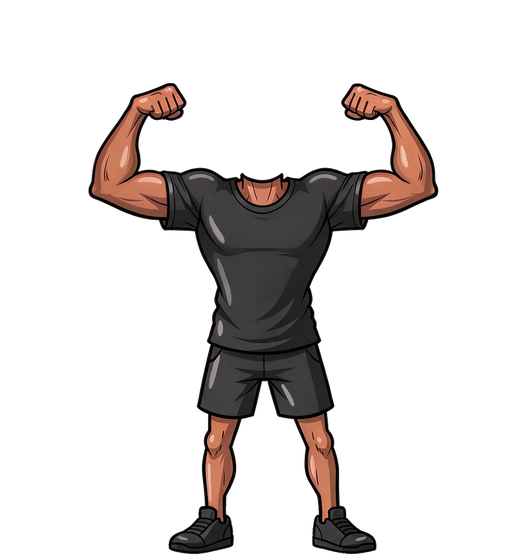
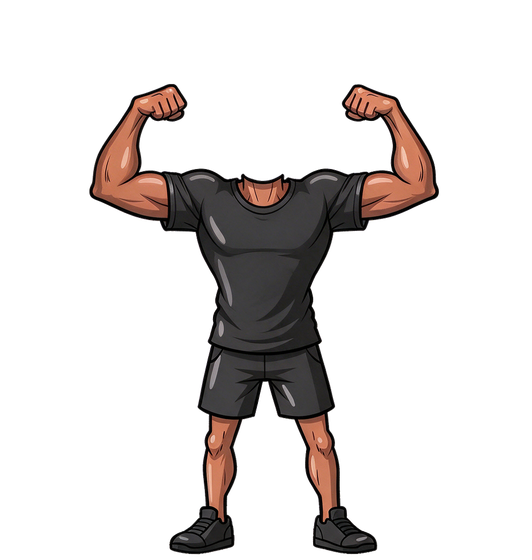
Gym Bros: modest leg steps for men's levels 6–7
Claude-Session: https://claude.ai/code/session_01JFp6iswHHaXm5YTZNqTb2P

diff --git a/src/components/social/broGeo.ts b/src/components/social/broGeo.ts
@@ -3,18 +3,18 @@
  * by height) and its radius (by height). The same for every picture, so the logo never moves between levels. */
 export type BroKey = 'm1' | 'm2' | 'm3' | 'm4' | 'm5' | 'm6' | 'm7' | 'w1' | 'w2' | 'w3' | 'w4' | 'w5' | 'w6' | 'w7';
 export const BRO_GEO: Record<BroKey, [number, number, number, number]> = {
-  m1: [0.9486, 0.489, 0.2763, 0.094],
-  m2: [0.9486, 0.489, 0.2763, 0.094],
-  m3: [0.9486, 0.489, 0.2763, 0.094],
-  m4: [0.9486, 0.489, 0.2763, 0.094],
-  m5: [0.9486, 0.489, 0.2763, 0.094],
-  m6: [0.9486, 0.489, 0.2763, 0.094],
-  m7: [0.9486, 0.489, 0.2763, 0.094],
-  w1: [0.9486, 0.489, 0.2763, 0.094],
-  w2: [0.9486, 0.489, 0.2763, 0.094],
-  w3: [0.9486, 0.489, 0.2763, 0.094],
-  w4: [0.9486, 0.489, 0.2763, 0.094],
-  w5: [0.9486, 0.489, 0.2763, 0.094],
-  w6: [0.9486, 0.489, 0.2763, 0.094],
-  w7: [0.9486, 0.489, 0.2763, 0.094],
+  m1: [0.9494, 0.4889, 0.2777, 0.094],
+  m2: [0.9494, 0.4889, 0.2777, 0.094],
+  m3: [0.9494, 0.4889, 0.2777, 0.094],
+  m4: [0.9494, 0.4889, 0.2777, 0.094],
+  m5: [0.9494, 0.4889, 0.2777, 0.094],
+  m6: [0.9494, 0.4889, 0.2777, 0.094],
+  m7: [0.9494, 0.4889, 0.2777, 0.094],
+  w1: [0.9494, 0.4889, 0.2777, 0.094],
+  w2: [0.9494, 0.4889, 0.2777, 0.094],
+  w3: [0.9494, 0.4889, 0.2777, 0.094],
+  w4: [0.9494, 0.4889, 0.2777, 0.094],
+  w5: [0.9494, 0.4889, 0.2777, 0.094],
+  w6: [0.9494, 0.4889, 0.2777, 0.094],
+  w7: [0.9494, 0.4889, 0.2777, 0.094],
 };

diff --git a/ADRO-chat-log.md b/ADRO-chat-log.md
@@ -799,7 +799,7 @@ Passwords and keys are left out on purpose.
 
 **Built:**
 - All pictures edited with Seedream 5.0 Flash: forearms folded in, fists by the biceps (like the reference).
-- 7 levels each for men and women, with new in-between characters. Men: tried smaller steps first; the owner then asked for bigger differences, so men go from skinny to the big reference build. Levels 5–7 then got progressively bigger legs (owner: more difference in the legs).
+- 7 levels each for men and women, with new in-between characters. Men: tried smaller steps first; the owner then asked for bigger differences, so men go from skinny to the big reference build. Legs of levels 6–7 then made a little bigger in small, noticeable steps (a first try with huge legs was too much).
 - Every picture scaled to the same height (neck to feet) and standing on one line, so the logo sits in exactly the same place and size at every level.
 - The head is the app logo (white ring open at the top left, on the person's colour) with a glow around it. It doesn't change with level.
 - Levels from the 30-day commitment: under 30, 30–41, 42–54, 55–67, 68–79, 80–89, 90+ (Starter, Warming up, Getting there, Solid, Strong, Very strong, Beast). Someone who doesn't share it shows level 3.
